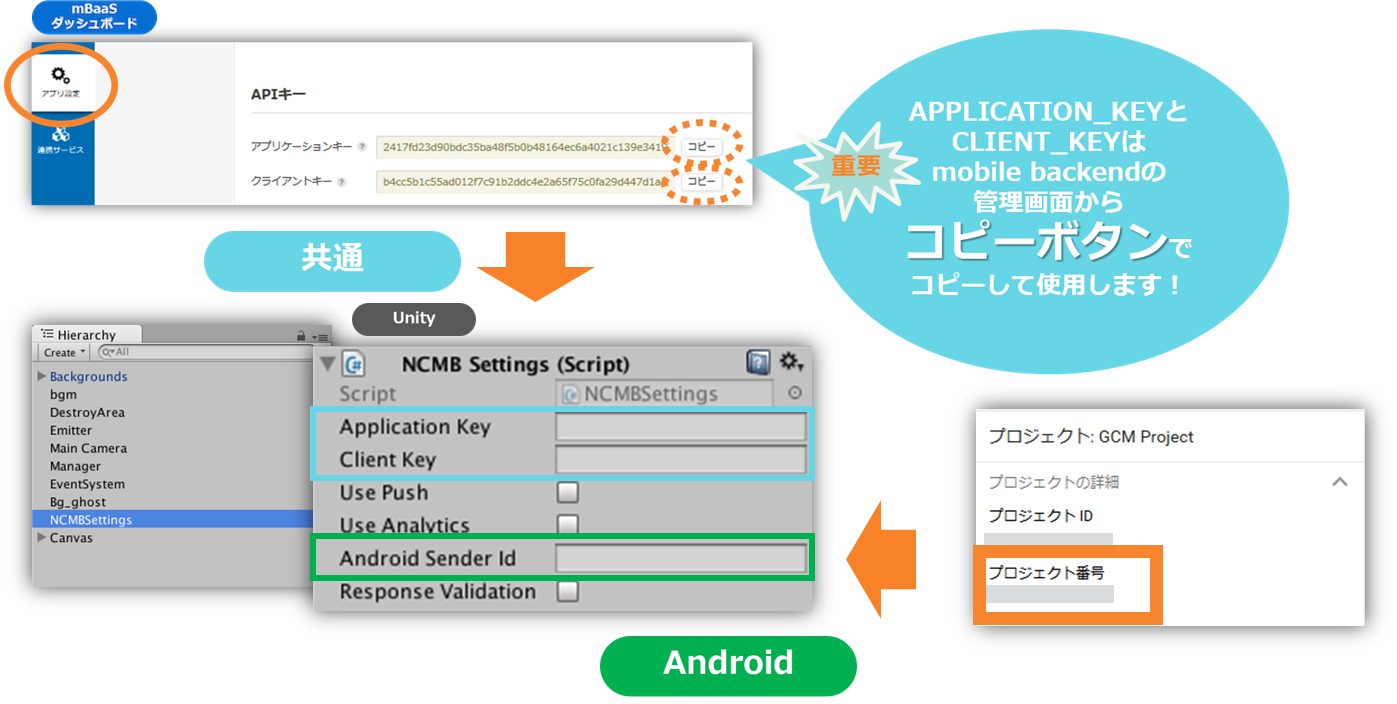
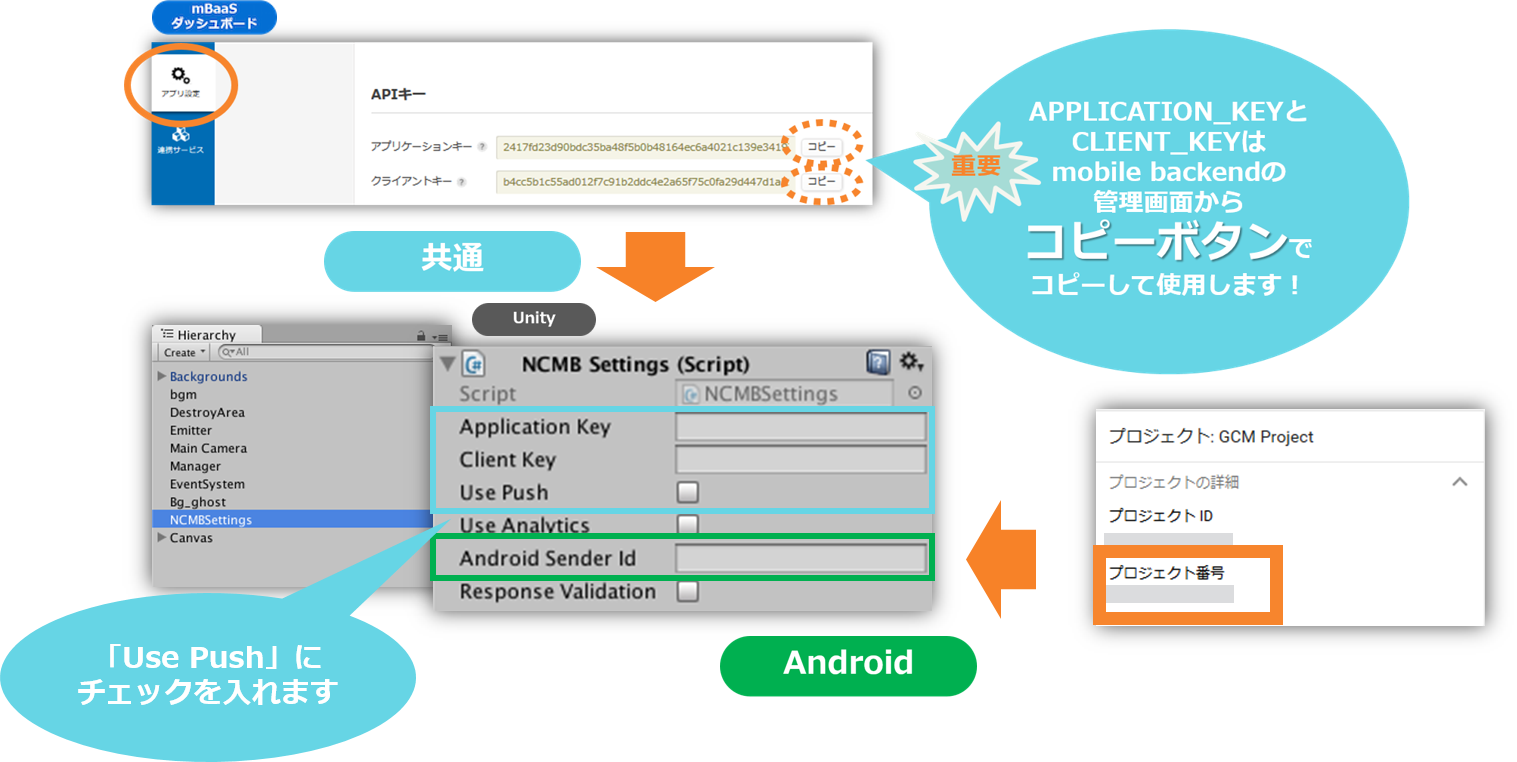
2
・imageの修正
・READMEの修正

diff --git a/README.md b/README.md
@@ -198,8 +198,8 @@
 
 * NCMBSettingsオブジェクトをタブし、inspectorを開きます
 * 先程[ニフティクラウドmobile backend](http://mb.cloud.nifty.com/)のダッシュボード上で確認したAPIキーを貼り付けます
-* Android端末で動作確認をする場合はプロジェクト番号も貼り付けます
-* 書き換え終わったら「保存」をクリックして保存をします
+* 「Use Push」にチェックを入れます
+* Android端末で動作確認をする場合はプロジェクト番号を貼り付けます
 
 ![画像7](/readme-img/007.png)
 
